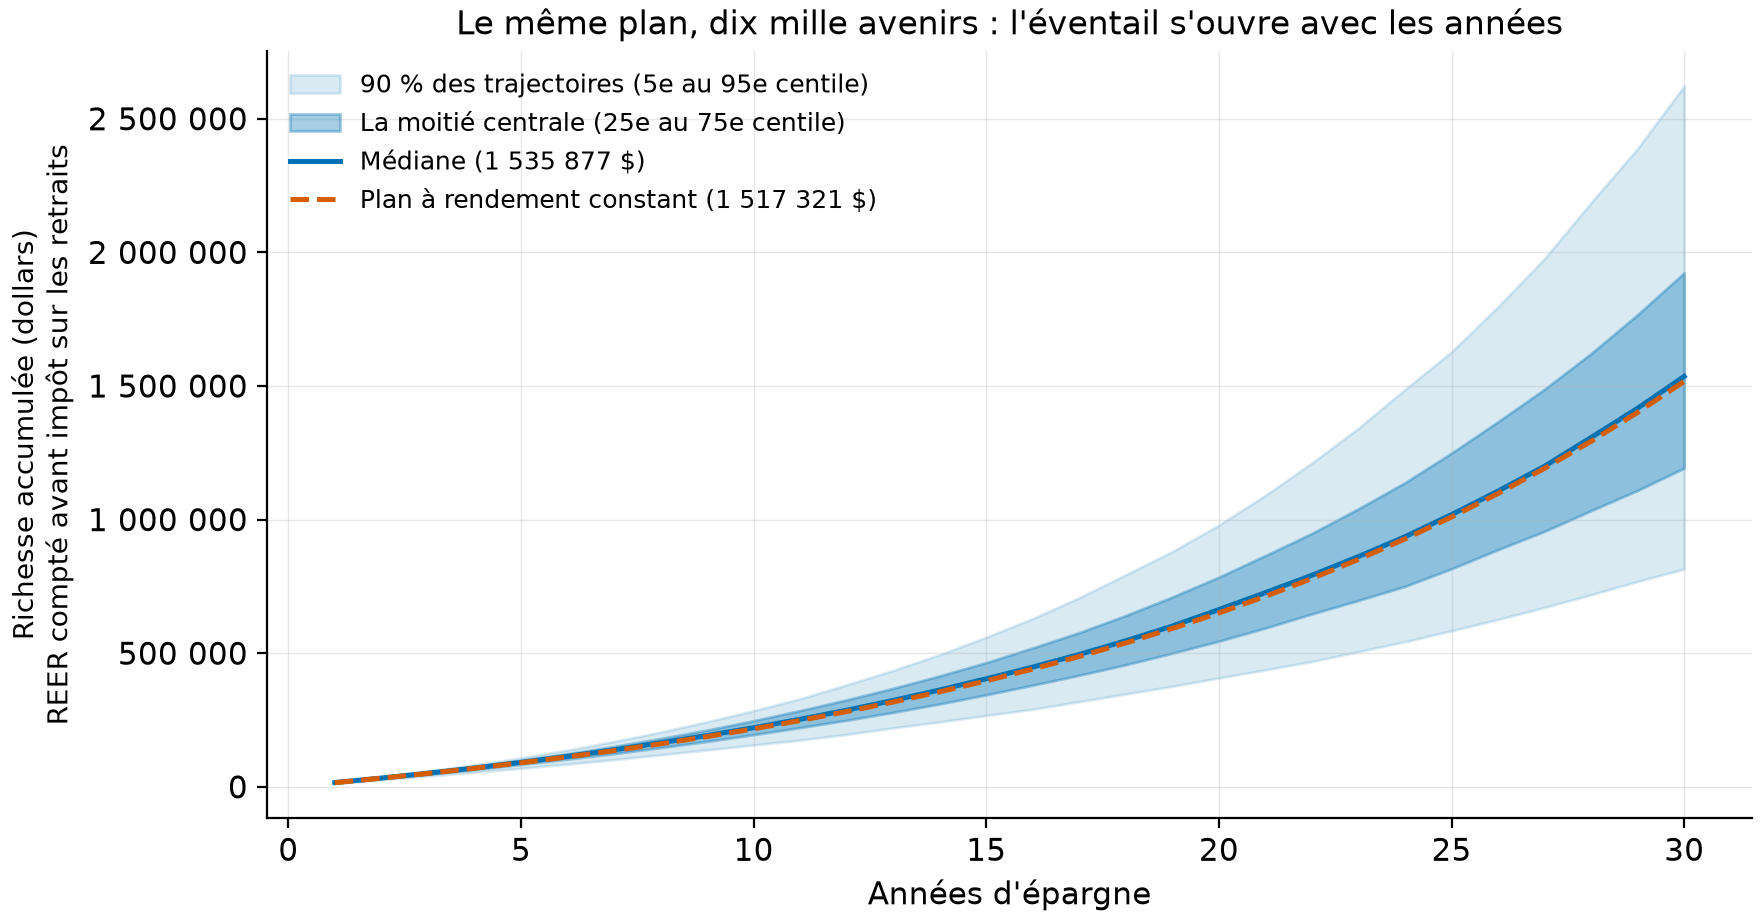
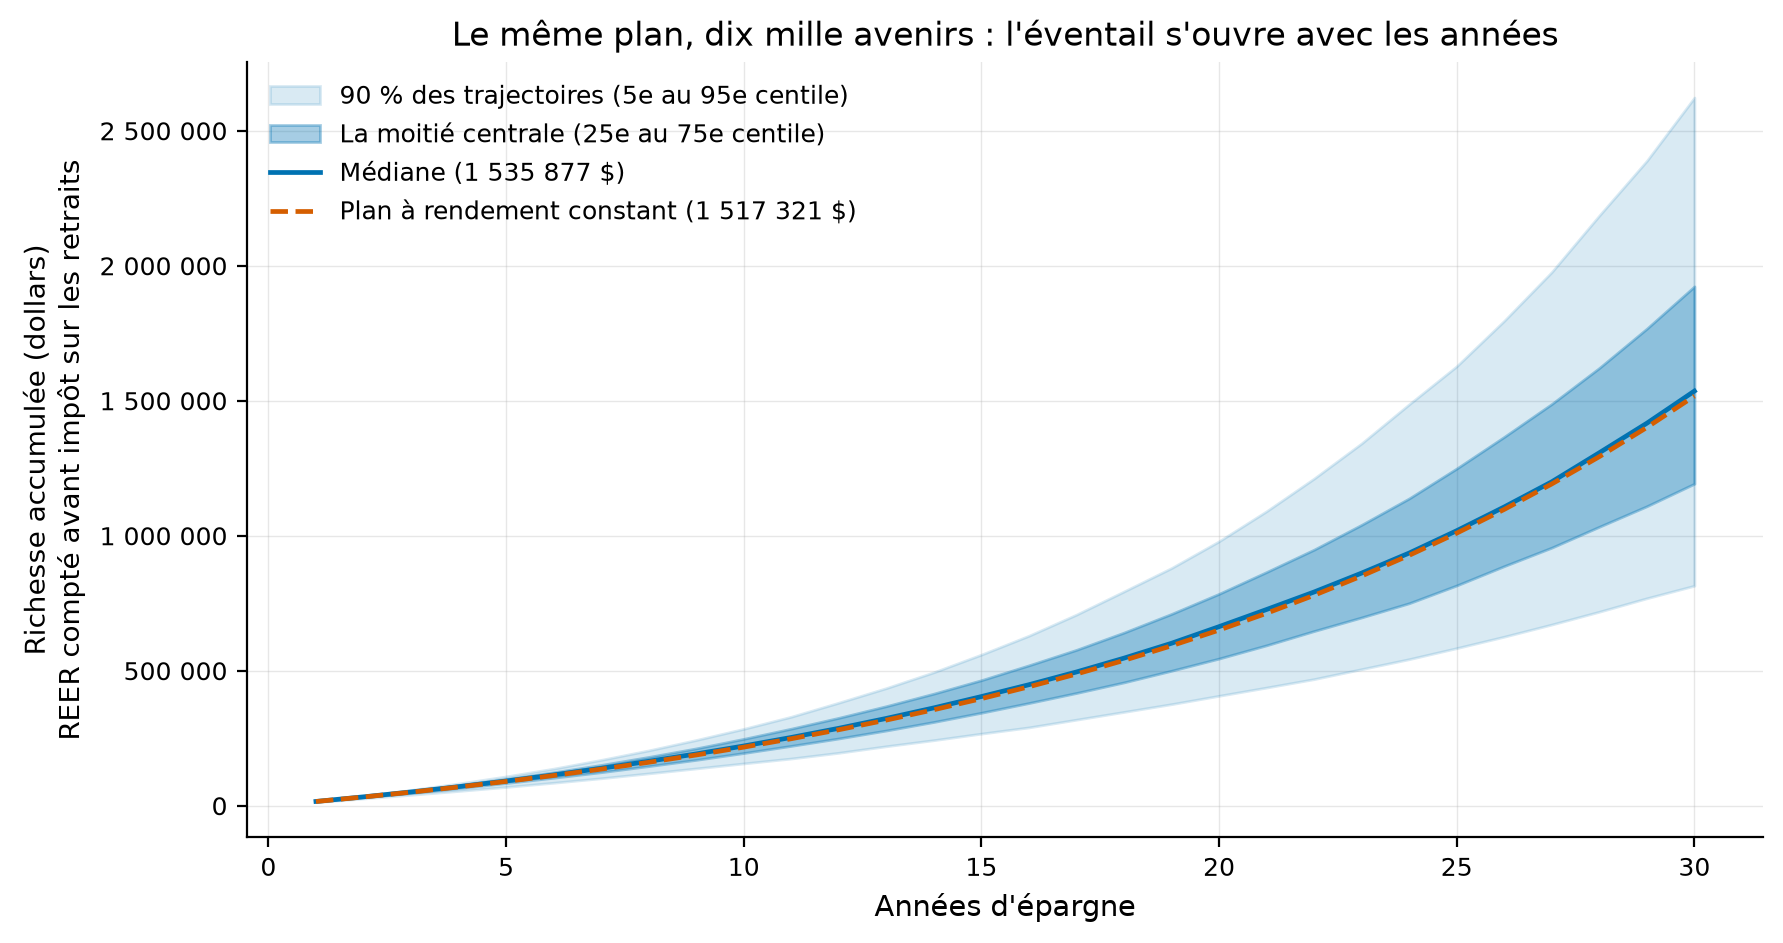
Consommer la feuille de style partagée au lieu de recopier la palette
La palette Okabe-Ito et les réglages de figure étaient recopiés à l'identique dans
chaque dépôt du portefeuille. Une correction de graisse de trait devait donc être faite
une fois par dépôt, et ne l'était jamais.

Le module de figures appelle désormais gv-fintools 0.2.1. Le nom public de la fonction
de réglage ne change pas, si bien qu'aucun appelant n'est touché. Les figures sont
régénérées avec le nouveau style, qui ajoute l'embarquement des polices dans les PDF :
le texte d'une figure reste sélectionnable et cherchable dans le rapport.

diff --git a/src/pec/figures.py b/src/pec/figures.py
@@ -7,25 +7,18 @@ from pathlib import Path
 import matplotlib.pyplot as plt
 import numpy as np
 import pandas as pd
+from gvf.style import OKABE_ITO, appliquer, formateur  # noqa: F401
 
-OKABE_ITO = ["#0072B2", "#E69F00", "#009E73", "#D55E00", "#CC79A7", "#56B4E9", "#F0E442", "#000000"]
+# La palette et les réglages viennent de la couche partagée du portefeuille : les mêmes
+# couleurs et la même virgule décimale dans tous les dépôts, corrigées à un seul endroit.
 
 LABELS = {"reer_d_abord": "REER d'abord", "celi_d_abord": "CELI d'abord", "moitie_moitie": "Moitié-moitié"}
 
 
 def use_style():
-    import matplotlib as mpl
-    from cycler import cycler
-    from matplotlib.ticker import FuncFormatter
-
-    mpl.rcParams.update({
-        "figure.dpi": 200, "savefig.dpi": 200, "figure.constrained_layout.use": True,
-        "font.size": 11, "axes.titlesize": 12, "axes.prop_cycle": cycler(color=OKABE_ITO),
-        "axes.spines.top": False, "axes.spines.right": False,
-        "axes.grid": True, "grid.alpha": 0.3, "grid.linewidth": 0.5,
-        "legend.frameon": False, "lines.linewidth": 1.8,
-    })
-    return FuncFormatter(lambda v, _: f"{v:g}".replace(".", ","))
+    """Les réglages communs, puis le formateur d'axe en français."""
+    appliquer()
+    return formateur()
 
 
 def _milliers(v: float) -> str:
